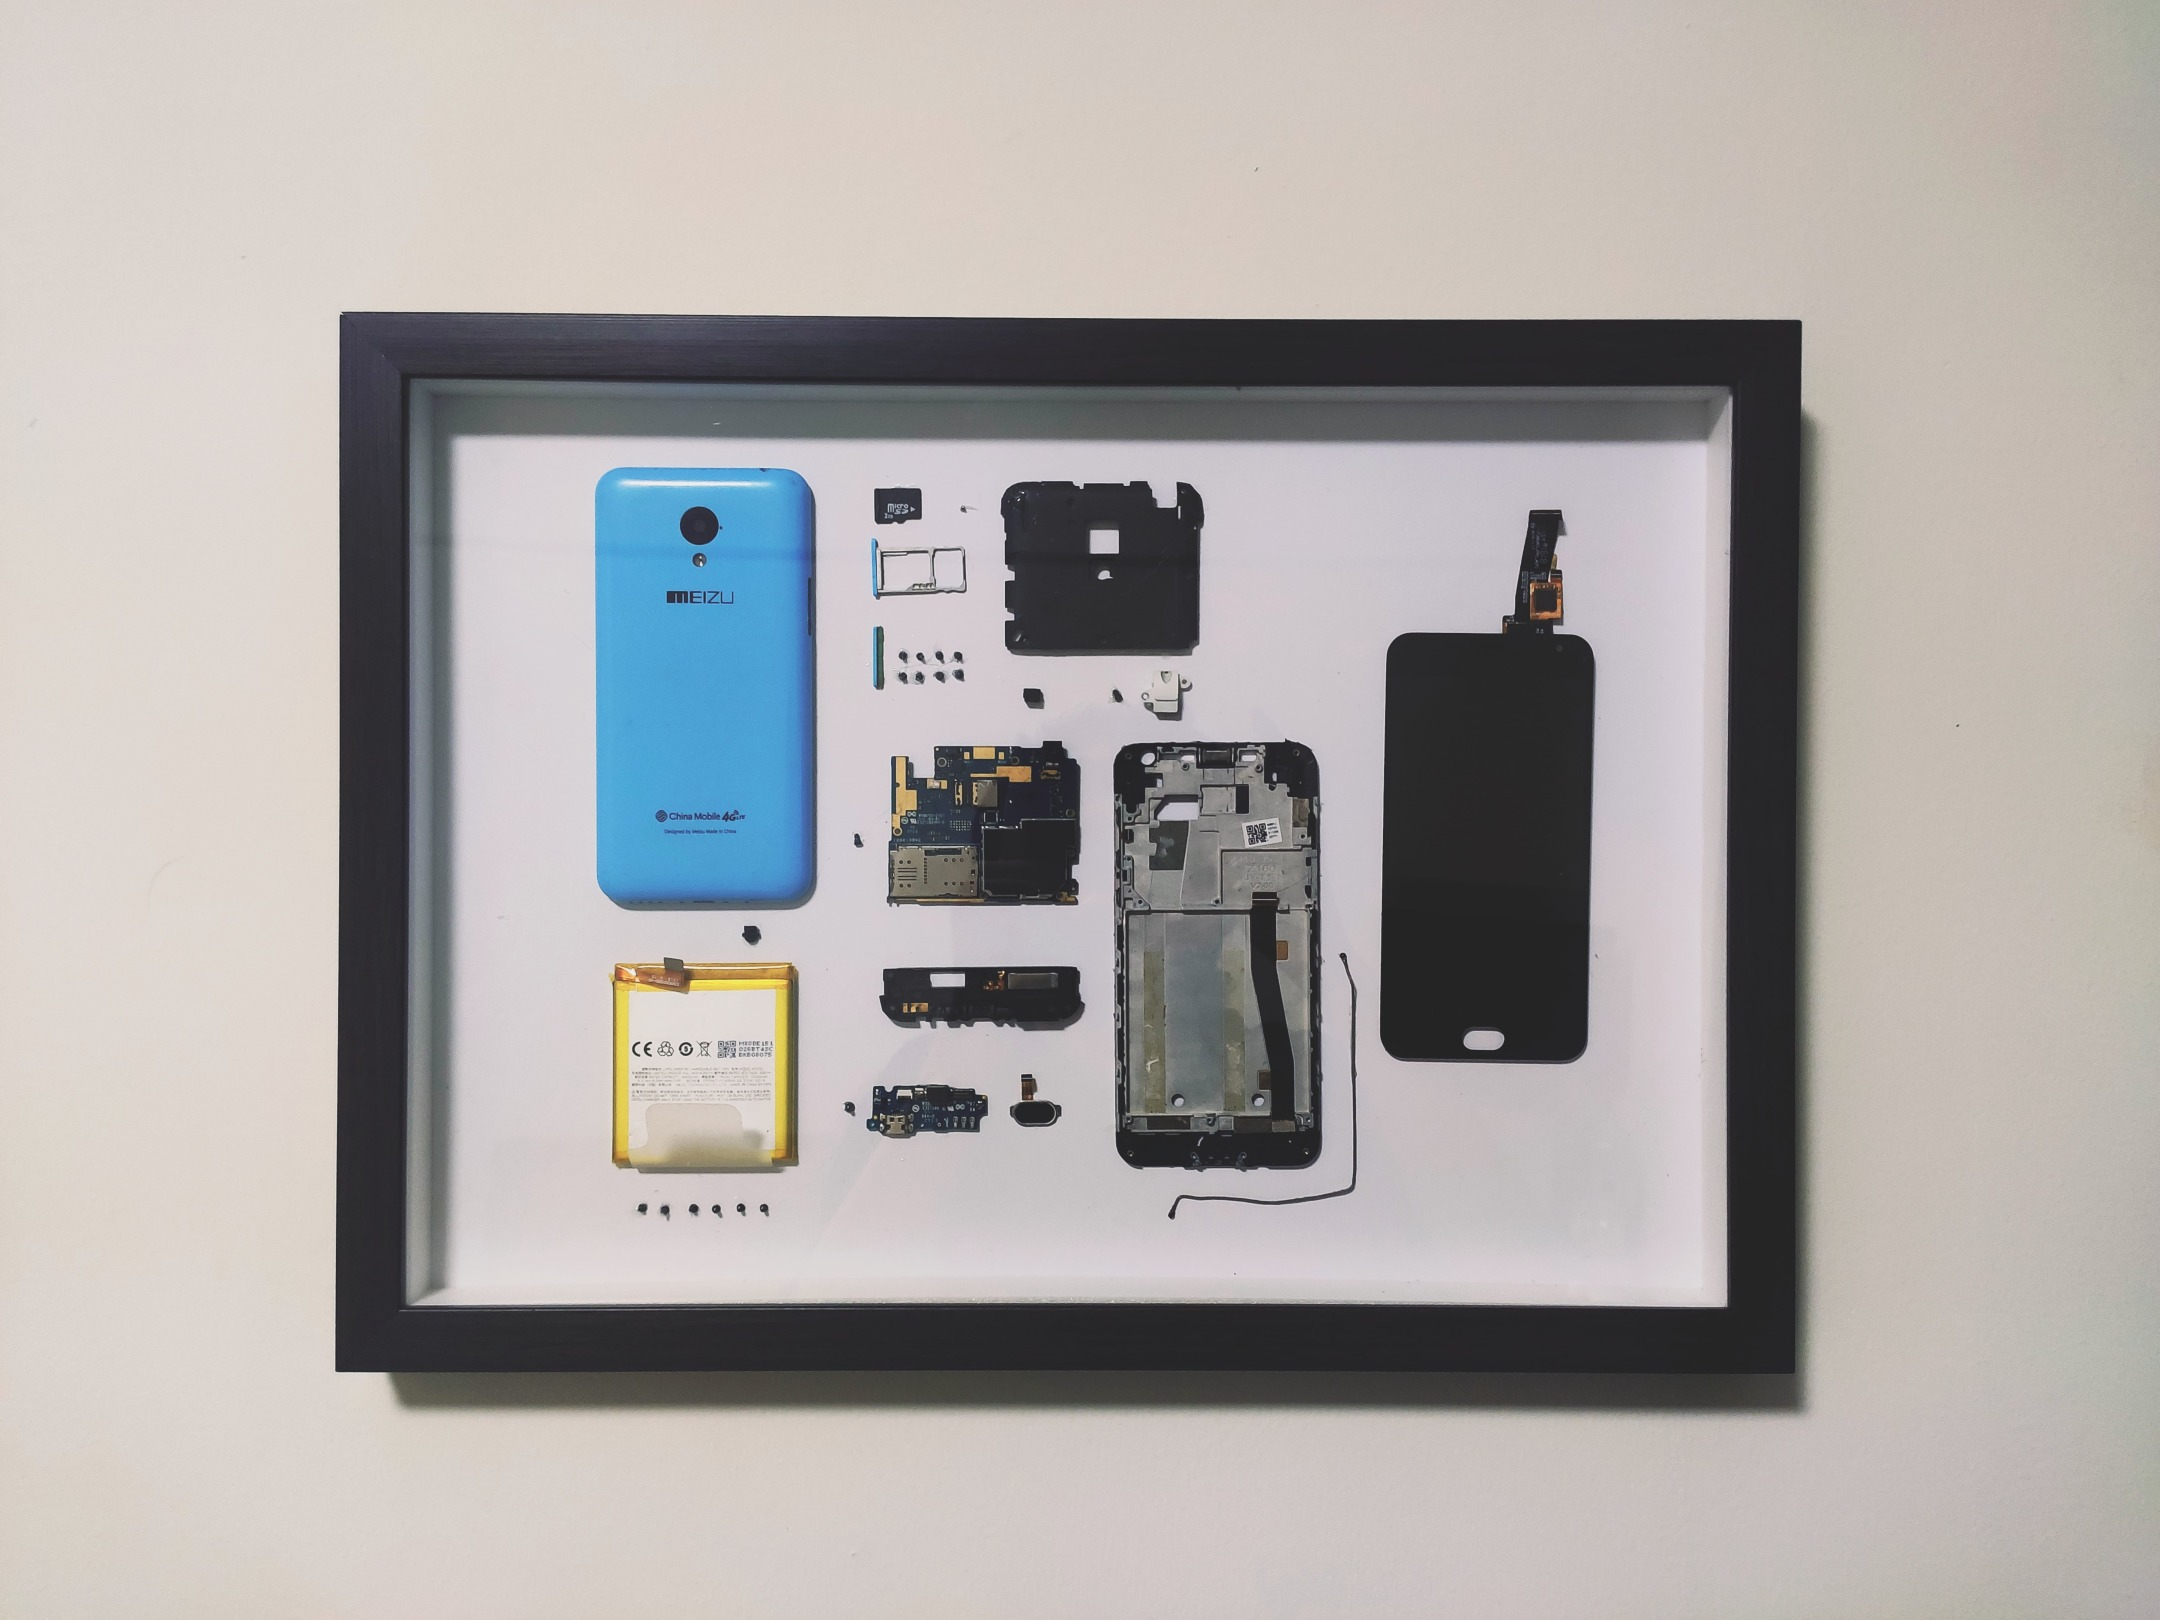
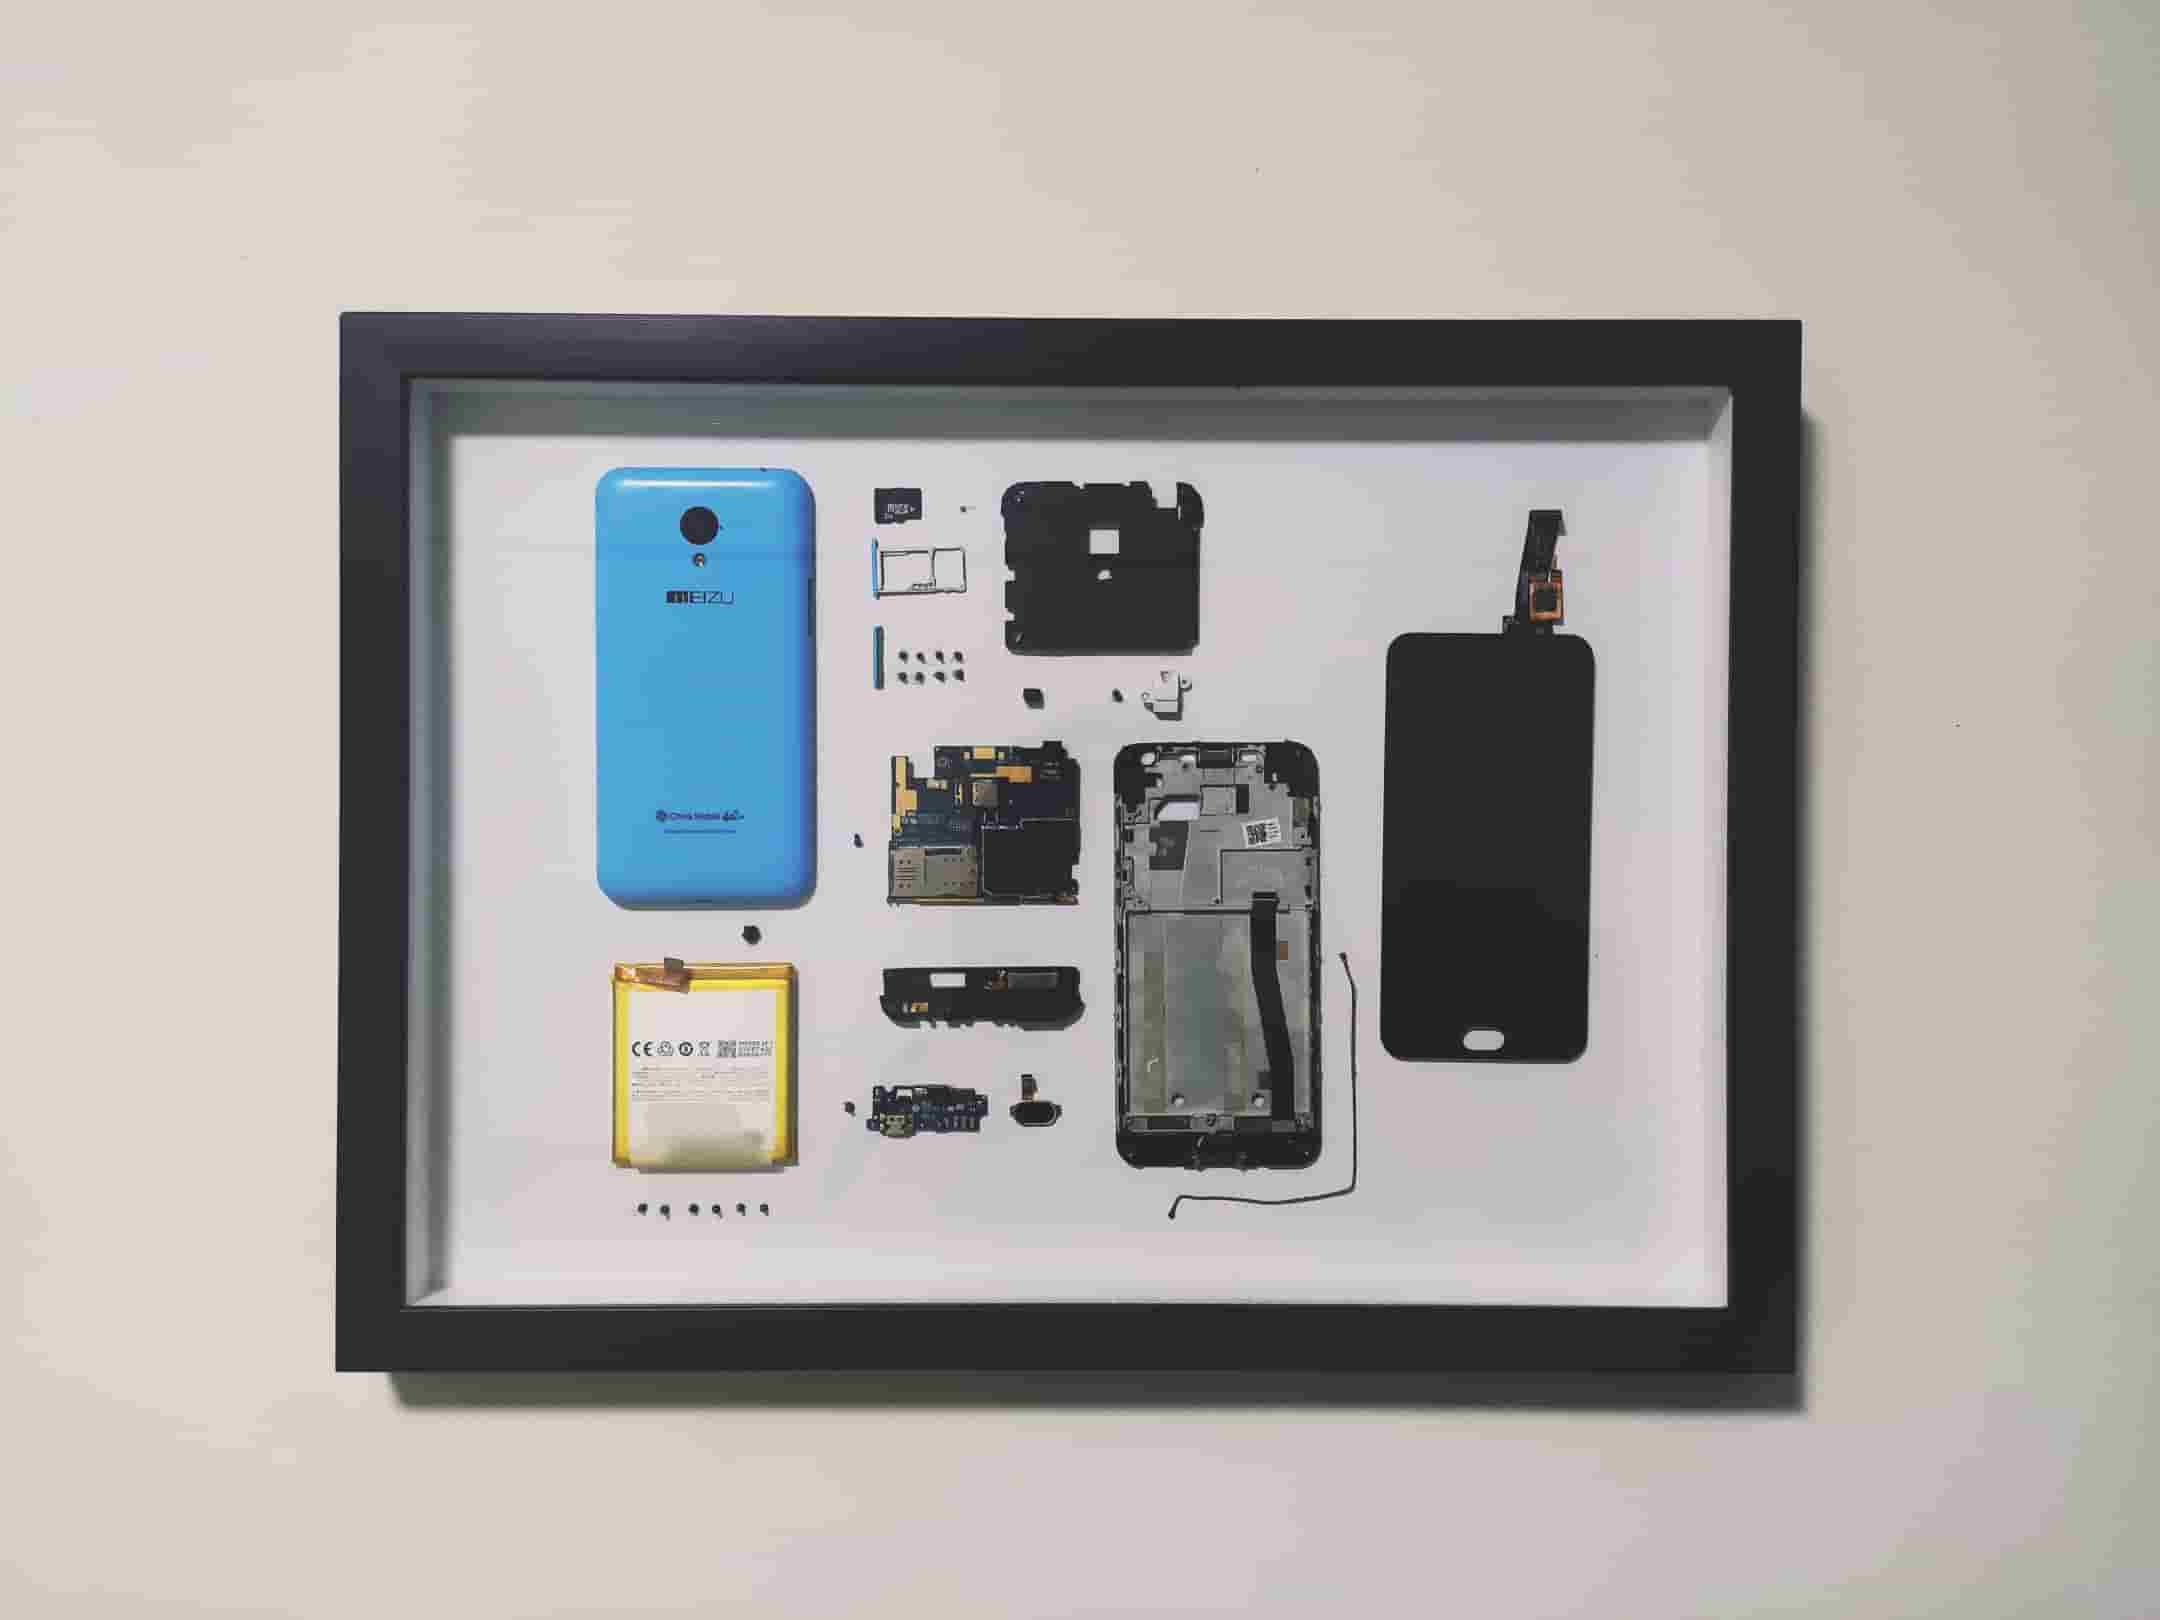
pic compress.

diff --git a/blog-front/blog/something/是枝裕和.md b/blog-front/blog/something/是枝裕和.md
@@ -6,7 +6,7 @@ authors: teaho2015
 tags: [film]
 keywords: [film]
 description: 从镜头的角度解读是枝裕和
-image: /img/blog/film/shi-zhi-yu-he-header.png
+image: /img/blog/film/shi-zhi-yu-he-header.jpg
 sticky: 1
 ---
 

diff --git a/blog-front/blog/code/java-modular/java-modular.md b/blog-front/blog/code/java-modular/java-modular.md
@@ -6,7 +6,7 @@ authors: teaho2015
 tags: [java]
 keywords: [java]
 description: JEP 261:Module System(模块系统)
-image: "/img/blog/java-modular/header.jpeg"
+image: "/img/blog/java-modular/header.jpg"
 sticky: 1
 ---
 
